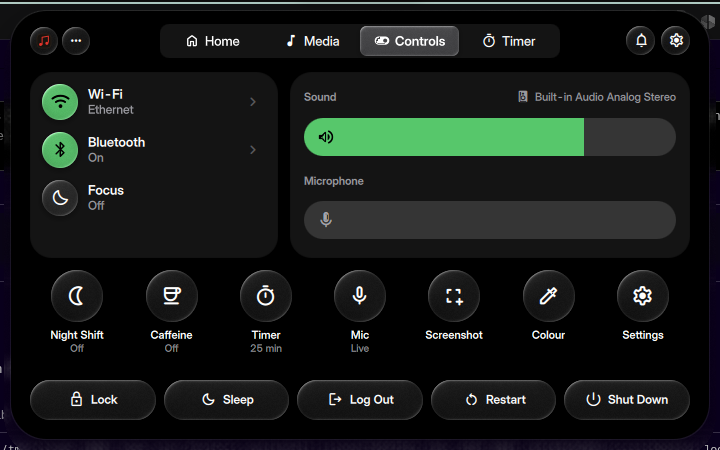
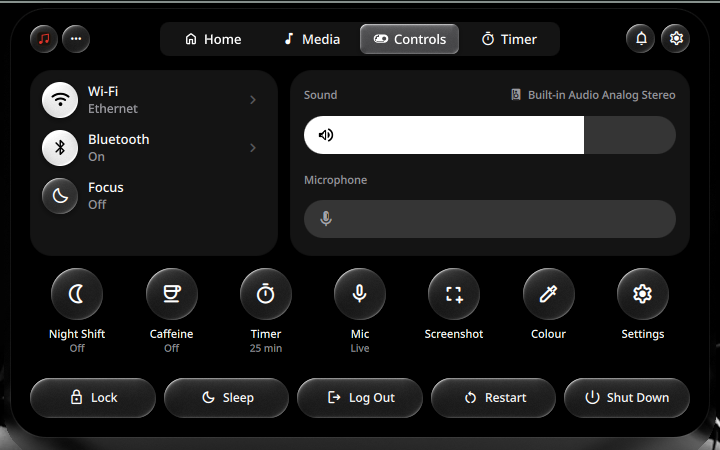
[barstyles] dynamic-island: fix the 4.0 review findings
Fixes the review on the 4.0 update:
- Cameras plugged in after start now light the privacy dot. Each probe
  checks for a device first, every 30s with none and every 5s with one.
- Glass over album art gets the backdrop's real size. It used to get
  the automatic (0, 0) textureSize, which the shader divides by.
- Tray beads that don't fit left of the tabs go behind "+N" instead of
  covering the Home tab.
- Launcher maths: -2^2 is -4, and "1.2.3" is rejected (island and
  Island launcher).
- The Island launcher clears stale search text when reopened mid-close.
- Notifications already there on switch-in get the shell's arrival time,
  not "now" forever.
- A banner arriving during a hover or reply hold gets just its own
  lifetime after the hold.

The preview is a fresh capture of the 4.0 Controls tab. The trailers
below also cover the 4.0 update in the previous commit, which had none.

Note: New: Dynamic Island 4.0 has a black island with liquid-glass controls, and tray menus open inside the island
Note: New: The Island notification card, app launcher and OSD can be installed on their own
Note: Fixed: Dynamic Island's privacy dot now notices a camera plugged in after the shell starts
Note: Fixed: Dynamic Island's launcher maths gets negative powers right

diff --git a/barstyles/dynamic-island/GlassControl.qml b/barstyles/dynamic-island/GlassControl.qml
@@ -38,6 +38,17 @@ Item {
     property Item backdropSpace: _owner ? _owner.glassSpace : null
 
     readonly property real pad: 6
+    // ShaderEffectSource leaves textureSize at (0, 0) when it sizes itself, so
+    // fall back to what it covers; the shader divides by this
+    readonly property size _texSize: {
+        const b = root.backdrop;
+        if (!b) return Qt.size(1, 1);
+        const t = b.textureSize;
+        if (t && t.width > 0 && t.height > 0) return t;
+        const it = b.sourceItem || root.backdropSpace;
+        const w = it ? it.width : 0, h = it ? it.height : 0;
+        return Qt.size(Math.max(1, w), Math.max(1, h));
+    }
     readonly property bool live: !flat && glass.status !== ShaderEffect.Error
     property real _light: pressed ? 1 : hovered ? 0.55 : 0
     Behavior on _light { NumberAnimation { duration: 160; easing.type: Easing.OutCubic } }
@@ -58,8 +69,8 @@ Item {
     function _place() {
         if (!root.backdrop || !root.backdropSpace || !root.visible) return;
         const pt = root.mapToItem(root.backdropSpace, -root.pad, -root.pad);
-        const sx = root.backdropSpace.width > 0 ? root.backdrop.textureSize.width / root.backdropSpace.width : 1;
-        const sy = root.backdropSpace.height > 0 ? root.backdrop.textureSize.height / root.backdropSpace.height : 1;
+        const sx = root.backdropSpace.width > 0 ? root._texSize.width / root.backdropSpace.width : 1;
+        const sy = root.backdropSpace.height > 0 ? root._texSize.height / root.backdropSpace.height : 1;
         root._origin = Qt.point(pt.x * (sx || 1), pt.y * (sy || 1));
     }
     onXChanged: _place()
@@ -90,7 +101,7 @@ Item {
         property var src: root.backdrop ? root.backdrop : nullTex
         property size itemSize: Qt.size(width, height)
         property point srcOrigin: root._origin
-        property size srcSize: root.backdrop ? root.backdrop.textureSize : Qt.size(1, 1)
+        property size srcSize: root._texSize
         property color base: root.base
         property color tint: root.tint
         property real pad: root.pad

diff --git a/launchers/island/GlassControl.qml b/launchers/island/GlassControl.qml
@@ -38,6 +38,17 @@ Item {
     property Item backdropSpace: _owner ? _owner.glassSpace : null
 
     readonly property real pad: 6
+    // ShaderEffectSource leaves textureSize at (0, 0) when it sizes itself, so
+    // fall back to what it covers; the shader divides by this
+    readonly property size _texSize: {
+        const b = root.backdrop;
+        if (!b) return Qt.size(1, 1);
+        const t = b.textureSize;
+        if (t && t.width > 0 && t.height > 0) return t;
+        const it = b.sourceItem || root.backdropSpace;
+        const w = it ? it.width : 0, h = it ? it.height : 0;
+        return Qt.size(Math.max(1, w), Math.max(1, h));
+    }
     readonly property bool live: !flat && glass.status !== ShaderEffect.Error
     property real _light: pressed ? 1 : hovered ? 0.55 : 0
     Behavior on _light { NumberAnimation { duration: 160; easing.type: Easing.OutCubic } }
@@ -58,8 +69,8 @@ Item {
     function _place() {
         if (!root.backdrop || !root.backdropSpace || !root.visible) return;
         const pt = root.mapToItem(root.backdropSpace, -root.pad, -root.pad);
-        const sx = root.backdropSpace.width > 0 ? root.backdrop.textureSize.width / root.backdropSpace.width : 1;
-        const sy = root.backdropSpace.height > 0 ? root.backdrop.textureSize.height / root.backdropSpace.height : 1;
+        const sx = root.backdropSpace.width > 0 ? root._texSize.width / root.backdropSpace.width : 1;
+        const sy = root.backdropSpace.height > 0 ? root._texSize.height / root.backdropSpace.height : 1;
         root._origin = Qt.point(pt.x * (sx || 1), pt.y * (sy || 1));
     }
     onXChanged: _place()
@@ -90,7 +101,7 @@ Item {
         property var src: root.backdrop ? root.backdrop : nullTex
         property size itemSize: Qt.size(width, height)
         property point srcOrigin: root._origin
-        property size srcSize: root.backdrop ? root.backdrop.textureSize : Qt.size(1, 1)
+        property size srcSize: root._texSize
         property color base: root.base
         property color tint: root.tint
         property real pad: root.pad

diff --git a/notifications/island/GlassControl.qml b/notifications/island/GlassControl.qml
@@ -38,6 +38,17 @@ Item {
     property Item backdropSpace: _owner ? _owner.glassSpace : null
 
     readonly property real pad: 6
+    // ShaderEffectSource leaves textureSize at (0, 0) when it sizes itself, so
+    // fall back to what it covers; the shader divides by this
+    readonly property size _texSize: {
+        const b = root.backdrop;
+        if (!b) return Qt.size(1, 1);
+        const t = b.textureSize;
+        if (t && t.width > 0 && t.height > 0) return t;
+        const it = b.sourceItem || root.backdropSpace;
+        const w = it ? it.width : 0, h = it ? it.height : 0;
+        return Qt.size(Math.max(1, w), Math.max(1, h));
+    }
     readonly property bool live: !flat && glass.status !== ShaderEffect.Error
     property real _light: pressed ? 1 : hovered ? 0.55 : 0
     Behavior on _light { NumberAnimation { duration: 160; easing.type: Easing.OutCubic } }
@@ -58,8 +69,8 @@ Item {
     function _place() {
         if (!root.backdrop || !root.backdropSpace || !root.visible) return;
         const pt = root.mapToItem(root.backdropSpace, -root.pad, -root.pad);
-        const sx = root.backdropSpace.width > 0 ? root.backdrop.textureSize.width / root.backdropSpace.width : 1;
-        const sy = root.backdropSpace.height > 0 ? root.backdrop.textureSize.height / root.backdropSpace.height : 1;
+        const sx = root.backdropSpace.width > 0 ? root._texSize.width / root.backdropSpace.width : 1;
+        const sy = root.backdropSpace.height > 0 ? root._texSize.height / root.backdropSpace.height : 1;
         root._origin = Qt.point(pt.x * (sx || 1), pt.y * (sy || 1));
     }
     onXChanged: _place()
@@ -90,7 +101,7 @@ Item {
         property var src: root.backdrop ? root.backdrop : nullTex
         property size itemSize: Qt.size(width, height)
         property point srcOrigin: root._origin
-        property size srcSize: root.backdrop ? root.backdrop.textureSize : Qt.size(1, 1)
+        property size srcSize: root._texSize
         property color base: root.base
         property color tint: root.tint
         property real pad: root.pad

diff --git a/osds/island/GlassControl.qml b/osds/island/GlassControl.qml
@@ -38,6 +38,17 @@ Item {
     property Item backdropSpace: _owner ? _owner.glassSpace : null
 
     readonly property real pad: 6
+    // ShaderEffectSource leaves textureSize at (0, 0) when it sizes itself, so
+    // fall back to what it covers; the shader divides by this
+    readonly property size _texSize: {
+        const b = root.backdrop;
+        if (!b) return Qt.size(1, 1);
+        const t = b.textureSize;
+        if (t && t.width > 0 && t.height > 0) return t;
+        const it = b.sourceItem || root.backdropSpace;
+        const w = it ? it.width : 0, h = it ? it.height : 0;
+        return Qt.size(Math.max(1, w), Math.max(1, h));
+    }
     readonly property bool live: !flat && glass.status !== ShaderEffect.Error
     property real _light: pressed ? 1 : hovered ? 0.55 : 0
     Behavior on _light { NumberAnimation { duration: 160; easing.type: Easing.OutCubic } }
@@ -58,8 +69,8 @@ Item {
     function _place() {
         if (!root.backdrop || !root.backdropSpace || !root.visible) return;
         const pt = root.mapToItem(root.backdropSpace, -root.pad, -root.pad);
-        const sx = root.backdropSpace.width > 0 ? root.backdrop.textureSize.width / root.backdropSpace.width : 1;
-        const sy = root.backdropSpace.height > 0 ? root.backdrop.textureSize.height / root.backdropSpace.height : 1;
+        const sx = root.backdropSpace.width > 0 ? root._texSize.width / root.backdropSpace.width : 1;
+        const sy = root.backdropSpace.height > 0 ? root._texSize.height / root.backdropSpace.height : 1;
         root._origin = Qt.point(pt.x * (sx || 1), pt.y * (sy || 1));
     }
     onXChanged: _place()
@@ -90,7 +101,7 @@ Item {
         property var src: root.backdrop ? root.backdrop : nullTex
         property size itemSize: Qt.size(width, height)
         property point srcOrigin: root._origin
-        property size srcSize: root.backdrop ? root.backdrop.textureSize : Qt.size(1, 1)
+        property size srcSize: root._texSize
         property color base: root.base
         property color tint: root.tint
         property real pad: root.pad

diff --git a/barstyles/dynamic-island/Hub.qml b/barstyles/dynamic-island/Hub.qml
@@ -466,22 +466,19 @@ Singleton {
     // ═══════════════ PRIVACY + SCREEN RECORDING ══════════════════
     // Microphone: any audio capture stream on the Pipewire graph (cava excluded).
     readonly property bool micInUse: Pipewire.nodes.values.some(n => n && n.type === PwNodeType.AudioInStream && !/cava/i.test(n.name || ""))
-    // Camera: only probed when a video device exists at all.
+    // Camera: each probe re-checks for a video device first (0 = none, 1 = idle,
+    // 2 = in use), so hot-plugged USB cameras are picked up. Polls slowly while
+    // no device exists, quickly while one does.
     property bool camInUse: false
     property bool hasCamera: false
     Process {
-        running: true
-        command: ["sh", "-c", "ls /dev/video* >/dev/null 2>&1 && echo 1 || echo 0"]
-        stdout: StdioCollector { onStreamFinished: root.hasCamera = this.text.trim() === "1" }
-    }
-    Process {
         id: camProc
-        command: ["sh", "-c", "find /proc/[0-9]*/fd -lname '/dev/video*' -print -quit 2>/dev/null | grep -q . && echo 1 || echo 0"]
-        stdout: StdioCollector { onStreamFinished: root.camInUse = this.text.trim() === "1" }
+        command: ["sh", "-c", "ls /dev/video* >/dev/null 2>&1 || { echo 0; exit; }; find /proc/[0-9]*/fd -lname '/dev/video*' -print -quit 2>/dev/null | grep -q . && echo 2 || echo 1"]
+        stdout: StdioCollector { onStreamFinished: { const v = this.text.trim(); root.hasCamera = v !== "0"; root.camInUse = v === "2"; } }
     }
     Timer {
-        interval: 5000; repeat: true; triggeredOnStart: true
-        running: Config.s.showPrivacy && root.hasCamera
+        interval: root.hasCamera ? 5000 : 30000; repeat: true; triggeredOnStart: true
+        running: Config.s.showPrivacy
         onTriggered: camProc.running = true
         onRunningChanged: if (!running) root.camInUse = false
     }

diff --git a/launchers/island/Main.qml b/launchers/island/Main.qml
@@ -65,7 +65,10 @@ Scope {
             if (/[0-9.,]/.test(c)) {
                 let j = i;
                 while (j < src.length && /[0-9.,]/.test(src[j])) j++;
-                toks.push({ n: parseFloat(src.slice(i, j).replace(/,/g, ".")) });
+                // one well-formed number, or the whole sum is rejected ("1.2.3" is not 1.2)
+                const num = src.slice(i, j).replace(/,/g, ".");
+                if (!/^(?:\d+\.?\d*|\.\d+)$/.test(num)) return NaN;
+                toks.push({ n: Number(num) });
                 i = j;
                 continue;
             }
@@ -73,7 +76,8 @@ Scope {
             toks.push({ o: c });
             i++;
         }
-        const prec = { "+": 1, "-": 1, "*": 2, "/": 2, "%": 2, "^": 3, "neg": 4 };
+        // unary minus binds looser than ^, so -2^2 is -(2^2) = -4
+        const prec = { "+": 1, "-": 1, "*": 2, "/": 2, "%": 2, "neg": 2.5, "^": 3 };
         const out = [], ops = [];
         let prev = null;
         for (const t of toks) {
@@ -266,6 +270,13 @@ Scope {
                             font.weight: Font.Medium
                             Component.onCompleted: forceActiveFocus()
                             onTextEdited: { root.query = text; root.selected = 0; }
+                            // reopening during the close animation keeps this field
+                            // alive, so take show()'s reset and the focus back
+                            Connections {
+                                target: root
+                                function onQueryChanged() { if (field.text !== root.query) field.text = root.query; }
+                                function onOpenChanged() { if (root.open) field.forceActiveFocus(); }
+                            }
                             Text {
                                 visible: field.text.length === 0
                                 anchors.verticalCenter: parent.verticalCenter

diff --git a/barstyles/dynamic-island/Notifs.qml b/barstyles/dynamic-island/Notifs.qml
@@ -35,6 +35,17 @@ Singleton {
     readonly property var list: Platform.notifList
     readonly property int count: list.length
 
+    // record notifications that were already there when the island loaded,
+    // without a banner; `at` is when they really arrived, if known (ms)
+    function seed(items, at) {
+        const t = Object.assign({}, times);
+        for (let i = 0; i < items.length; i++) {
+            const n = items[i];
+            if (n && !t[n.id]) t[n.id] = Number(at ? at(n) : 0) || Date.now();
+        }
+        times = t;
+    }
+
     function receive(n) {
         const t = Object.assign({}, times);
         t[n.id] = Date.now();
@@ -73,7 +84,9 @@ Singleton {
         popups = [n].concat(popups.filter(p => p && p !== n)).slice(0, 5);
         const e = Object.assign({}, expiry);
         const life = lifetime(n);
-        e[n.id] = life === Number.MAX_SAFE_INTEGER ? life : Date.now() + life;
+        // during a hold, count from when it began: releasing the hold adds the
+        // whole hold to every deadline, so this one gets just its own lifetime
+        e[n.id] = life === Number.MAX_SAFE_INTEGER ? life : (hold ? holdStart : Date.now()) + life;
         expiry = e;
     }
     function removePopup(n) {

diff --git a/barstyles/dynamic-island/LauncherPage.qml b/barstyles/dynamic-island/LauncherPage.qml
@@ -61,7 +61,10 @@ Item {
             if (/[0-9.,]/.test(c)) {
                 let j = i;
                 while (j < src.length && /[0-9.,]/.test(src[j])) j++;
-                toks.push({ n: parseFloat(src.slice(i, j).replace(/,/g, ".")) });
+                // one well-formed number, or the whole sum is rejected ("1.2.3" is not 1.2)
+                const num = src.slice(i, j).replace(/,/g, ".");
+                if (!/^(?:\d+\.?\d*|\.\d+)$/.test(num)) return NaN;
+                toks.push({ n: Number(num) });
                 i = j;
                 continue;
             }
@@ -69,7 +72,8 @@ Item {
             toks.push({ o: c });
             i++;
         }
-        const prec = { "+": 1, "-": 1, "*": 2, "/": 2, "%": 2, "^": 3, "neg": 4 };
+        // unary minus binds looser than ^, so -2^2 is -(2^2) = -4
+        const prec = { "+": 1, "-": 1, "*": 2, "/": 2, "%": 2, "neg": 2.5, "^": 3 };
         const out = [], ops = [];
         let prev = null;
         for (const t of toks) {

diff --git a/barstyles/dynamic-island/TrayStrip.qml b/barstyles/dynamic-island/TrayStrip.qml
@@ -15,8 +15,17 @@ Row {
     id: root
     property string screenName: ""
     readonly property var items: Hub.trayItems
-    readonly property int shownCount: Math.min(items.length, Math.max(0, Config.s.trayInHeader))
+    // room left of the tab switcher; beads that don't fit go behind "+N"
+    property real maxWidth: Infinity
     readonly property int count: items.length
+    readonly property int fitCount: {
+        if (!isFinite(maxWidth)) return count;
+        // every bead is 28 + 4 spacing; keep room for a "+N" bead (~40)
+        const all = count * 32 - spacing + 32;   // all beads plus the chevron
+        if (all <= maxWidth) return count;
+        return Math.max(0, Math.floor((maxWidth - 40) / 32));
+    }
+    readonly property int shownCount: Math.min(count, Math.max(0, Config.s.trayInHeader), fitCount)
     spacing: 4
 
     Repeater {

diff --git a/barstyles/dynamic-island/Island.qml b/barstyles/dynamic-island/Island.qml
@@ -757,6 +757,7 @@ Item {
                     height: 34
 
                     Segmented {
+                        id: tabSwitch
                         anchors.centerIn: parent
                         width: 400
                         itemHeight: 30
@@ -806,6 +807,7 @@ Item {
                         screenName: root.screenName
                         anchors.left: parent.left
                         anchors.verticalCenter: parent.verticalCenter
+                        maxWidth: tabSwitch.x - 8
                     }
                 }
 

diff --git a/barstyles/dynamic-island/Platform.qml b/barstyles/dynamic-island/Platform.qml
@@ -86,6 +86,10 @@ Singleton {
         const t = notifList;
         for (let i = 0; i < t.length; i++) s[t[i].id] = true;
         seen = s;
+        // they still need a time, or the Center shows them as "now" forever;
+        // the shell knows when each one really arrived
+        const arrived = Shell.Notifs.arrivalMs || {};
+        Notifs.seed(t, n => arrived[n.id]);
         seeded = true;
     }
 
